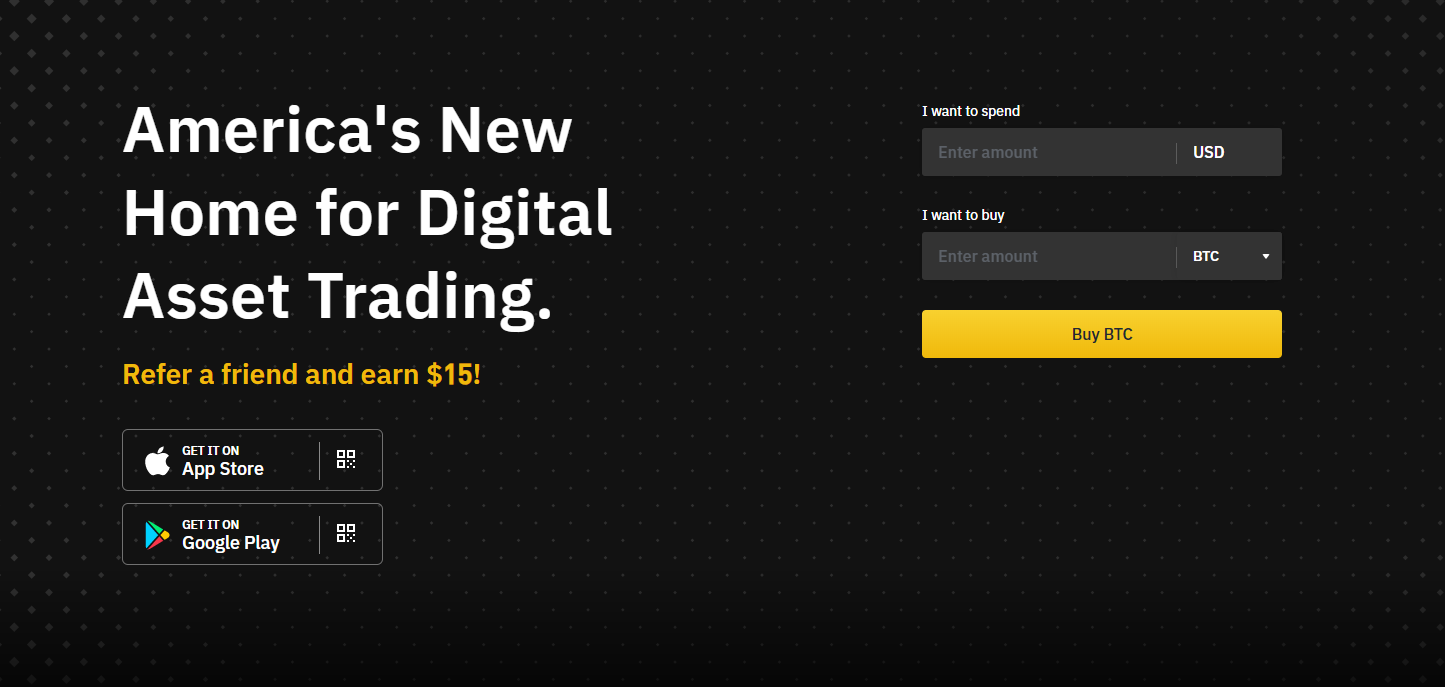
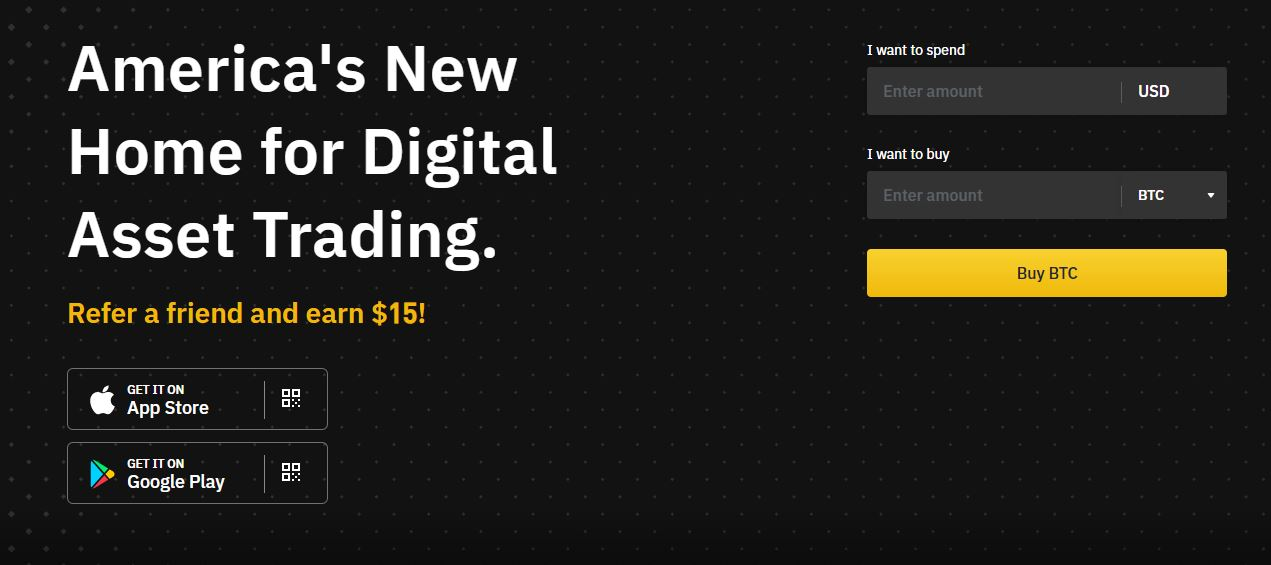
jpg

diff --git a/posts/2020_02_03_Binance_US/post.html b/posts/2020_02_03_Binance_US/post.html
@@ -135,17 +135,17 @@
 							<div class="row">
 								<div id="wprs_square">
 									<div itemprop="image" itemscope="" itemtype="https://schema.org/ImageObject"><img
-											src="./binance-hero-card.png"
+											src="./binance-hero-card.jpg"
 											alt="Binance US $15 Referral Sign Up Bonus" data-recalc-dims="1"
 											class="jetpack-lazy-image jetpack-lazy-image--handled" data-lazy-loaded="1">
 											<noscript>
 												<img
-												src="./binance-hero-card.png"
+												src="./binance-hero-card.jpg"
 												srcset="" sizes="" alt="Binance US $15 Free Referral Sign Up Bonus"
 												data-recalc-dims="1" />
 											</noscript>
 										<meta itemprop="url"
-											content="./binance-hero-card.png">
+											content="./binance-hero-card.jpg">
 										<meta itemprop="width" content="">
 										<meta itemprop="height" content="">
 									</div>
